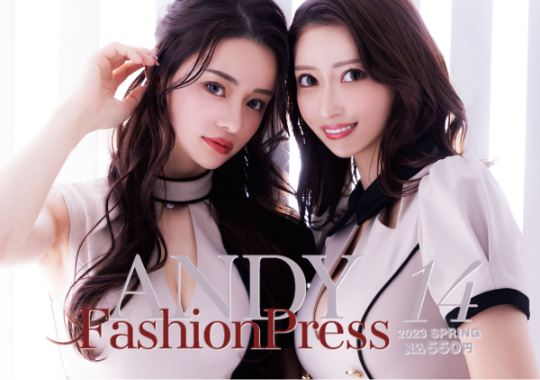
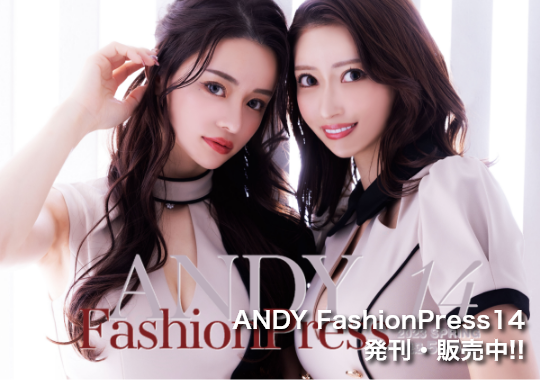
一旦コミット

Changed region(s): [[0.4148, 0.8105, 0.9778, 0.9842]]

diff --git a/resources/views/layouts/app_fw.blade.php b/resources/views/layouts/app_fw.blade.php
@@ -79,6 +79,44 @@
             </header>
 
             @yield('content_sp')
+            <div class="article_name">ANDYおススメ記事</div>
+            <ul class="slider-article" id="js-slider-recommend">
+                <li><a href="" class="article_a">
+                    <img src="{{ asset('img/new1.png') }}" class="article_img" alt="">
+                    <div class="article_title">ANDY FashionPress14<br>発刊・販売中!!</div>
+                    <div class="article_date">2023.03.24|特集</div>
+                </a></li>
+                <li><a href="" class="article_a">
+                    <img src="{{ asset('img/new2.png') }}" class="article_img" alt="">
+                    <div class="article_title">大人気キャスト<br>RUNA&HINANO<br>注目のan新作ドレス</div>
+                    <div class="article_date">2023.03.24|カタログ</div>
+                </a></li>
+                <li><a href="" class="article_a">
+                    <img src="{{ asset('img/new3.png') }}" class="article_img" alt="">
+                    <div class="article_title">女性人気No.1<br>キャスト<br>一條りおなさん</div>
+                    <div class="article_date">2023.03.24|コンテンツ</div>
+                </a></li>
+                <li><a href="" class="article_a">
+                    <img src="{{ asset('img/new4.png') }}" class="article_img" alt="">
+                    <div class="article_title">'韓国風メイク'がキャストさんの間でもトレンド入り！</div>
+                    <div class="article_date">2023.03.24|特集</div>
+                </a></li>
+                <li><a href="" class="article_a">
+                    <img src="{{ asset('img/new5.png') }}" class="article_img" alt="">
+                    <div class="article_title">トレンドの出勤スタイル！<br>韓国風ヘアメイク</div>
+                    <div class="article_date">2023.03.24|特集</div>
+                </a></li>
+                <li><a href="" class="article_a">
+                    <img src="{{ asset('img/new6.png') }}" class="article_img" alt="">
+                    <div class="article_title">私の家族を紹介します！<br>鳳まりあ</div>
+                    <div class="article_date">2023.03.24|インタビュー</div>
+                </a></li>
+                <li><a href="" class="article_a">
+                    <img src="{{ asset('img/new7.png') }}" class="article_img" alt="">
+                    <div class="article_title">YUKARI先生のハッピードレス占い</div>
+                    <div class="article_date">2023.03.24|コンテンツ</div>
+                </a></li>
+            </ul>
             <footer>
                 <div class="banner_list">
                     <a href="" class="banner_a"><img src="{{ asset('img/banner1.png') }}" class="banner_img" alt=""></a>

diff --git a/resources/views/index.blade.php b/resources/views/index.blade.php
@@ -83,44 +83,7 @@
         </a></li>
     </ul>
 
-    <div class="article_name">ANDYおススメ記事</div>
-    <ul class="slider-article" id="js-slider-recommend">
-        <li><a href="" class="article_a">
-            <img src="{{ asset('img/new1.png') }}" class="article_img" alt="">
-            <div class="article_title">ANDY FashionPress14<br>発刊・販売中!!</div>
-            <div class="article_date">2023.03.24|特集</div>
-        </a></li>
-        <li><a href="" class="article_a">
-            <img src="{{ asset('img/new2.png') }}" class="article_img" alt="">
-            <div class="article_title">大人気キャスト<br>RUNA&HINANO<br>注目のan新作ドレス</div>
-            <div class="article_date">2023.03.24|カタログ</div>
-        </a></li>
-        <li><a href="" class="article_a">
-            <img src="{{ asset('img/new3.png') }}" class="article_img" alt="">
-            <div class="article_title">女性人気No.1<br>キャスト<br>一條りおなさん</div>
-            <div class="article_date">2023.03.24|コンテンツ</div>
-        </a></li>
-        <li><a href="" class="article_a">
-            <img src="{{ asset('img/new4.png') }}" class="article_img" alt="">
-            <div class="article_title">'韓国風メイク'がキャストさんの間でもトレンド入り！</div>
-            <div class="article_date">2023.03.24|特集</div>
-        </a></li>
-        <li><a href="" class="article_a">
-            <img src="{{ asset('img/new5.png') }}" class="article_img" alt="">
-            <div class="article_title">トレンドの出勤スタイル！<br>韓国風ヘアメイク</div>
-            <div class="article_date">2023.03.24|特集</div>
-        </a></li>
-        <li><a href="" class="article_a">
-            <img src="{{ asset('img/new6.png') }}" class="article_img" alt="">
-            <div class="article_title">私の家族を紹介します！<br>鳳まりあ</div>
-            <div class="article_date">2023.03.24|インタビュー</div>
-        </a></li>
-        <li><a href="" class="article_a">
-            <img src="{{ asset('img/new7.png') }}" class="article_img" alt="">
-            <div class="article_title">YUKARI先生のハッピードレス占い</div>
-            <div class="article_date">2023.03.24|コンテンツ</div>
-        </a></li>
-    </ul>
+
 
 
 

diff --git a/app/Providers/AppServiceProvider.php b/app/Providers/AppServiceProvider.php
@@ -23,6 +23,10 @@ class AppServiceProvider extends ServiceProvider
      */
     public function boot()
     {
-        //
+        ini_set('mbstring.internal_encoding' , 'UTF-8');
+        Schema::defaultStringLength(191);
+        if (\App::environment('production')) {
+            \URL::forceScheme('https');
+        }
     }
 }
